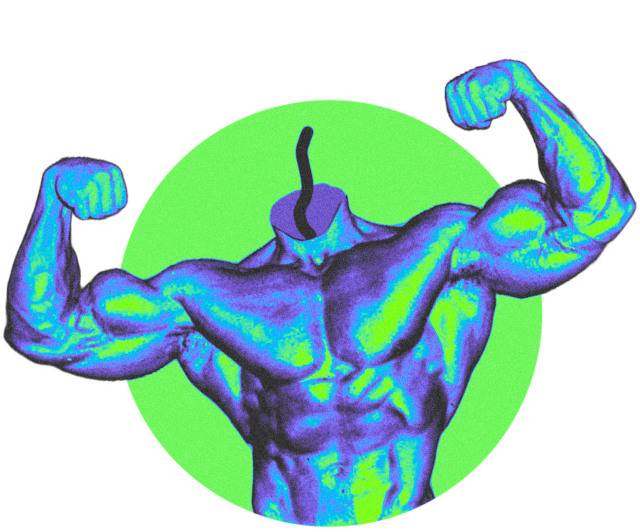
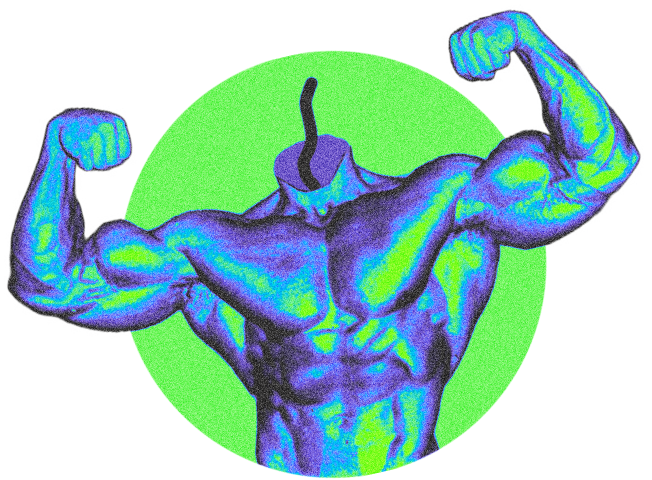
categorias

diff --git a/src/app/components/categorias/categorias.component.html b/src/app/components/categorias/categorias.component.html
@@ -1,0 +1,86 @@
+<div class="column-container-categoria">
+  <div class="column-categoria">
+    <svg
+    class="vibration-animation"
+      fill="#ffffff"
+      width="80px"
+      height="80px"
+      viewBox="0 0 32 32"
+      version="1.1"
+      xmlns="http://www.w3.org/2000/svg"
+    >
+      <title>target</title>
+      <path
+        d="M28.122 3.584l-2.147 1.898-1.303 0.020-2.73 2.855c1.76 1.87 2.846 4.383 2.846 7.154 0 5.773-4.681 10.455-10.455 10.455s-10.454-4.682-10.454-10.455c0-5.774 4.681-10.455 10.454-10.455 2.645 0 5.053 0.989 6.894 2.608l2.635-2.635 0.002-1.161 2.022-2.335-0.002 2.079 2.238-0.028zM20.885 9.414l-2.658 2.659c0.9 0.977 1.463 2.27 1.463 3.703 0 3.025-2.451 5.476-5.476 5.476s-5.477-2.451-5.477-5.476c0-3.024 2.452-5.477 5.477-5.477 1.231 0 2.355 0.421 3.271 1.107l2.686-2.686c-1.569-1.35-3.605-2.171-5.838-2.171-4.949 0-8.961 4.013-8.961 8.962s4.012 8.96 8.961 8.96 8.961-4.012 8.961-8.96c-0.001-2.358-0.919-4.497-2.409-6.097zM14.172 17.352c-0.824 0-1.493-0.668-1.493-1.493s0.669-1.494 1.493-1.494c0.104 0 0.196 0.039 0.295 0.060l2.313-2.313c-0.728-0.511-1.609-0.816-2.566-0.816-2.475 0-4.48 2.007-4.48 4.481s2.006 4.48 4.48 4.48 4.48-2.006 4.48-4.48c0-1.158-0.451-2.203-1.173-2.999l-2.185 2.186c0.193 0.252 0.329 0.554 0.329 0.896 0.001 0.824-0.668 1.492-1.493 1.492zM9.855 26.748c0.297 0.15 0.602 0.285 0.915 0.406l-1.768 3.062c-0.138 0.238-0.442 0.318-0.681 0.182-0.237-0.137-0.319-0.441-0.182-0.68l1.716-2.97zM14.856 27.531v1.395c0 0.275-0.224 0.498-0.498 0.498-0.275 0-0.498-0.223-0.498-0.498v-1.395c0.166 0.008 0.33 0.025 0.498 0.025s0.332-0.017 0.498-0.025zM20.951 29.719c0.137 0.238 0.056 0.543-0.183 0.68s-0.542 0.057-0.681-0.182l-1.767-3.062c0.312-0.121 0.618-0.256 0.915-0.406l1.716 2.97z"
+      ></path>
+    </svg>
+    <h2>Assertivo</h2>
+  </div>
+
+  <div class="column-categoria">
+    <svg
+      version="1.0"
+      id="Layer_1"
+      xmlns="http://www.w3.org/2000/svg"
+      xmlns:xlink="http://www.w3.org/1999/xlink"
+      width="80px"
+      height="80px"
+      viewBox="0 0 64 64"
+      enable-background="new 0 0 64 64"
+      xml:space="preserve"
+    >
+      <g>
+        <path
+          fill="#ffffff"
+          d="M48,0H16c-2.211,0-4,1.789-4,4v56c0,2.211,1.789,4,4,4h32c2.211,0,4-1.789,4-4V4C52,1.789,50.211,0,48,0z
+		 M50,60c0,1.104-0.896,2-2,2H16c-1.104,0-2-0.896-2-2v-8h36V60z M50,50H14V10h36V50z M50,8H14V4c0-1.104,0.896-2,2-2h32
+		c1.104,0,2,0.896,2,2V8z"
+        />
+        <path
+          fill="#ffffff"
+          d="M32,60c1.658,0,3-1.342,3-3s-1.342-3-3-3s-3,1.342-3,3S30.342,60,32,60z M32,56c0.553,0,1,0.447,1,1
+		s-0.447,1-1,1s-1-0.447-1-1S31.447,56,32,56z"
+        />
+        <path
+          fill="#ffffff"
+          d="M33,4h-6c-0.553,0-1,0.447-1,1s0.447,1,1,1h6c0.553,0,1-0.447,1-1S33.553,4,33,4z"
+        />
+        <circle fill="#ffffff" cx="37" cy="5" r="1" />
+      </g>
+    </svg>
+    <h2>Responsivo</h2>
+  </div>
+
+  <div class="column-categoria">
+    <svg
+      fill="#ffffff"
+      height="90px"
+      width="90px"
+      version="1.1"
+      id="Layer_1"
+      xmlns="http://www.w3.org/2000/svg"
+      xmlns:xlink="http://www.w3.org/1999/xlink"
+      viewBox="0 0 50 50"
+      enable-background="new 0 0 50 50"
+      xml:space="preserve"
+    >
+      <path
+        d="M42.549,16.701c-1.593,0-2.888,1.296-2.888,2.888c0,0.387,0.079,0.756,0.218,1.094l-8.549,7.957
+	c-0.458-0.306-1.007-0.486-1.598-0.486c-0.3,0-0.59,0.049-0.868,0.137l-2.732-3.442c0.204-0.401,0.324-0.841,0.324-1.304
+	c0-1.592-1.295-2.888-2.888-2.888s-2.888,1.296-2.888,2.888c0,0.146,0.027,0.286,0.048,0.428l-6.895,5.407
+	c-0.447-0.283-0.972-0.454-1.54-0.454c-1.593,0-2.888,1.296-2.888,2.888c0,1.593,1.295,2.889,2.888,2.889s2.888-1.296,2.888-2.889
+	c0-0.294-0.057-0.573-0.139-0.84l6.667-5.228c0.018,0.015,0.031,0.035,0.049,0.049c0.511,0.412,1.154,0.639,1.811,0.639
+	c0.382,0,0.753-0.075,1.096-0.216l2.627,3.31c-0.28,0.45-0.448,0.965-0.448,1.514c0,1.593,1.295,2.889,2.888,2.889
+	c1.592,0,2.888-1.296,2.888-2.889c0-0.266-0.048-0.518-0.115-0.762l8.736-8.13c0.395,0.203,0.835,0.328,1.309,0.328
+	c1.592,0,2.888-1.296,2.888-2.888S44.142,16.701,42.549,16.701z M12.293,32.701c-0.49,0-0.888-0.398-0.888-0.889
+	c0-0.489,0.398-0.888,0.888-0.888s0.888,0.398,0.888,0.888C13.182,32.303,12.783,32.701,12.293,32.701z M23.013,24.237
+	c-0.211-0.171-0.333-0.423-0.333-0.693c0-0.489,0.398-0.888,0.888-0.888s0.888,0.398,0.888,0.888c0,0.237-0.092,0.46-0.259,0.627
+	c0,0,0,0,0,0.001s0,0-0.001,0C23.844,24.522,23.225,24.407,23.013,24.237z M29.732,31.93c-0.49,0-0.888-0.398-0.888-0.889
+	c0-0.278,0.126-0.533,0.348-0.704c0.004-0.003,0.01-0.004,0.014-0.008c0,0,0.001-0.001,0.001-0.001
+	c0.109-0.081,0.284-0.175,0.526-0.175c0.489,0,0.888,0.398,0.888,0.888C30.62,31.531,30.222,31.93,29.732,31.93z M42.549,20.477
+	c-0.49,0-0.888-0.398-0.888-0.888s0.398-0.888,0.888-0.888c0.489,0,0.888,0.398,0.888,0.888S43.039,20.477,42.549,20.477z"
+      />
+    </svg>
+    <h2>Engajante</h2>
+  </div>
+</div>

diff --git a/src/app/components/footer/footer.component.html b/src/app/components/footer/footer.component.html
@@ -33,7 +33,7 @@
   <div class="right">
     <a href="https://www.tiktok.com/@dolla.solutions" target="_blank">
       <svg
-        fill="#000000"
+        fill="#6a53cb"
         width="30"
         height="30"
         viewBox="0 0 256 256"
@@ -47,7 +47,7 @@
     </a>
     <a href="https://www.instagram.com/dolla.solutions" target="_blank">
       <svg
-        fill="#000000"
+        fill="#6a53cb"
         width="30"
         height="30"
         viewBox="0 0 64 64"
@@ -66,7 +66,7 @@
     </a>
     <a href="https://www.facebook.com/dolla.solutions" target="_blank">
       <svg
-        fill="#000000"
+        fill="#6a53cb"
         width="30"
         height="30"
         viewBox="0 0 64 64"
@@ -79,7 +79,7 @@
     </a>
     <!-- <a href="#">
       <svg
-        fill="#000000"
+        fill="#6a53cb"
         width="30"
         height="30"
         viewBox="0 0 64 64"
@@ -101,7 +101,7 @@
     </a>
     <a href="#">
       <svg
-        fill="#000000"
+        fill="#6a53cb"
         width="30"
         height="30"
         viewBox="0 0 64 64"
@@ -117,7 +117,7 @@
     </a> -->
     <a href="https://wa.me/5531991786094" target="_blank">
       <svg
-        fill="#000000"
+        fill="#6a53cb"
         width="30"
         height="30"
         viewBox="0 0 64 64"

diff --git a/src/app/components/categorias/categorias.component.scss b/src/app/components/categorias/categorias.component.scss
@@ -1,0 +1,72 @@
+.column-container-categoria {
+  display: flex;
+  justify-content: space-between;
+  align-items: flex-end;
+  background: rgba(0, 0, 0, 0.44);
+  border-radius: 17px;
+  margin-top: -50px;
+  margin-bottom: 50px;
+}
+
+.column-categoria {
+  width: 33%;
+  box-sizing: border-box;
+  text-align: center;
+
+  img {
+    max-width: 100%;
+    height: auto;
+  }
+
+  p {
+    margin-top: 10px;
+    font-size: 1rem;
+  }
+}
+
+h2 {
+  font-family: Lubalin Graph Std Book;
+  font-size: 19px;
+  color: #fff;
+  margin: 10px 0;
+  text-align: center;
+  z-index: 2;
+
+  @media (max-width: 1080px) {
+    font-size: 14px;
+    text-align: inherit;
+    letter-spacing: 2px;
+    text-align: center;
+  }
+}
+
+.vibration-animation {
+  animation: vibration 5s infinite, pause 10s infinite;
+}
+
+@keyframes vibration {
+  0%,
+  100% {
+    transform: translateY(0);
+  }
+  10%,
+  30%,
+  50%,
+  70%,
+  90% {
+    transform: translateY(-2px);
+  }
+  20%,
+  40%,
+  60%,
+  80% {
+    transform: translateY(2px);
+  }
+}
+
+@keyframes pause {
+  0%,
+  100% {
+    transform: translateY(0);
+  }
+}

diff --git a/src/app/app.module.ts b/src/app/app.module.ts
@@ -8,6 +8,7 @@ import { SectionComponent } from './components/section/section.component';
 import { AnimationHeadComponent } from './components/animation-head/animation-head.component';
 import { AnimationTvComponent } from './components/animation-tv/animation-tv.component';
 import { FooterComponent } from './components/footer/footer.component';
+import { CategoriasComponent } from './components/categorias/categorias.component';
 
 @NgModule({
   declarations: [
@@ -16,7 +17,8 @@ import { FooterComponent } from './components/footer/footer.component';
     SectionComponent,
     AnimationHeadComponent,
     AnimationTvComponent,
-    FooterComponent
+    FooterComponent,
+    CategoriasComponent
   ],
   imports: [
     BrowserModule,

diff --git a/src/app/components/categorias/categorias.component.spec.ts b/src/app/components/categorias/categorias.component.spec.ts
@@ -1,0 +1,21 @@
+import { ComponentFixture, TestBed } from '@angular/core/testing';
+
+import { CategoriasComponent } from './categorias.component';
+
+describe('CategoriasComponent', () => {
+  let component: CategoriasComponent;
+  let fixture: ComponentFixture<CategoriasComponent>;
+
+  beforeEach(() => {
+    TestBed.configureTestingModule({
+      declarations: [CategoriasComponent]
+    });
+    fixture = TestBed.createComponent(CategoriasComponent);
+    component = fixture.componentInstance;
+    fixture.detectChanges();
+  });
+
+  it('should create', () => {
+    expect(component).toBeTruthy();
+  });
+});

diff --git a/src/app/pages/forca/forca.component.scss b/src/app/pages/forca/forca.component.scss
@@ -10,6 +10,11 @@
   max-width: 1400px;
   z-index: 99;
   bottom: -7px;
+  width: 50%;
+
+  @media (max-width: 768px) {
+    width: 100%;
+  }
 }
 
 .sections {
@@ -20,14 +25,18 @@
   display: flex;
   flex-direction: column;
   align-items: center;
+
+  @media (max-width: 768px) {
+    background-image: url("/assets/imgs/backgroundm.jpg");
+  }
 }
 
 .container {
   max-width: 1400px;
 
   @media (max-width: 768px) {
-    margin: 0 20px;
-    max-width: 90vw;
+    padding: 0 20px;
+
   }
 }
 

diff --git a/src/app/pages/forca/forca.component.html b/src/app/pages/forca/forca.component.html
@@ -18,7 +18,7 @@
         <app-animation-head></app-animation-head>
       </div>
     </app-section>
-
+    <app-categorias></app-categorias>
     <app-section>
       <div class="left-content bg-trans">
         <h3>
@@ -58,7 +58,6 @@
       <div class="right-content">
         <img class="astro" src="./assets/imgs/astro.png" />
         <button class="verde" type="button">ENTRE EM CONTATO</button>
-
       </div>
     </app-section>
   </div>

diff --git a/src/app/components/animation-head/animation-head.component.html b/src/app/components/animation-head/animation-head.component.html
@@ -1,5 +1,5 @@
 <div class="section-animation">
-  <img src="./assets/imgs/body.png" alt="Texto alternativo da imagem" />
+  <img class="body" src="./assets/imgs/body.png" alt="Texto alternativo da imagem" />
   <img
     class="head"
     src="./assets/imgs/dollaimg2.png"

diff --git a/src/app/components/categorias/categorias.component.ts b/src/app/components/categorias/categorias.component.ts
@@ -1,0 +1,10 @@
+import { Component } from '@angular/core';
+
+@Component({
+  selector: 'app-categorias',
+  templateUrl: './categorias.component.html',
+  styleUrls: ['./categorias.component.scss']
+})
+export class CategoriasComponent {
+
+}

diff --git a/src/app/components/section/section.component.scss b/src/app/components/section/section.component.scss
@@ -24,6 +24,11 @@
   flex-direction: column;
   justify-content: center;
   align-items: center;
+  width: 50%;
+
+  @media (max-width: 768px) {
+    width: 100%;
+  }
 }
 
 .right {

diff --git a/src/app/components/animation-head/animation-head.component.scss b/src/app/components/animation-head/animation-head.component.scss
@@ -26,3 +26,7 @@ img {
     ); /* Altere esse valor para ajustar a altura da flutuação */
   }
 }
+
+.body {
+  margin-top: 38px;
+}
